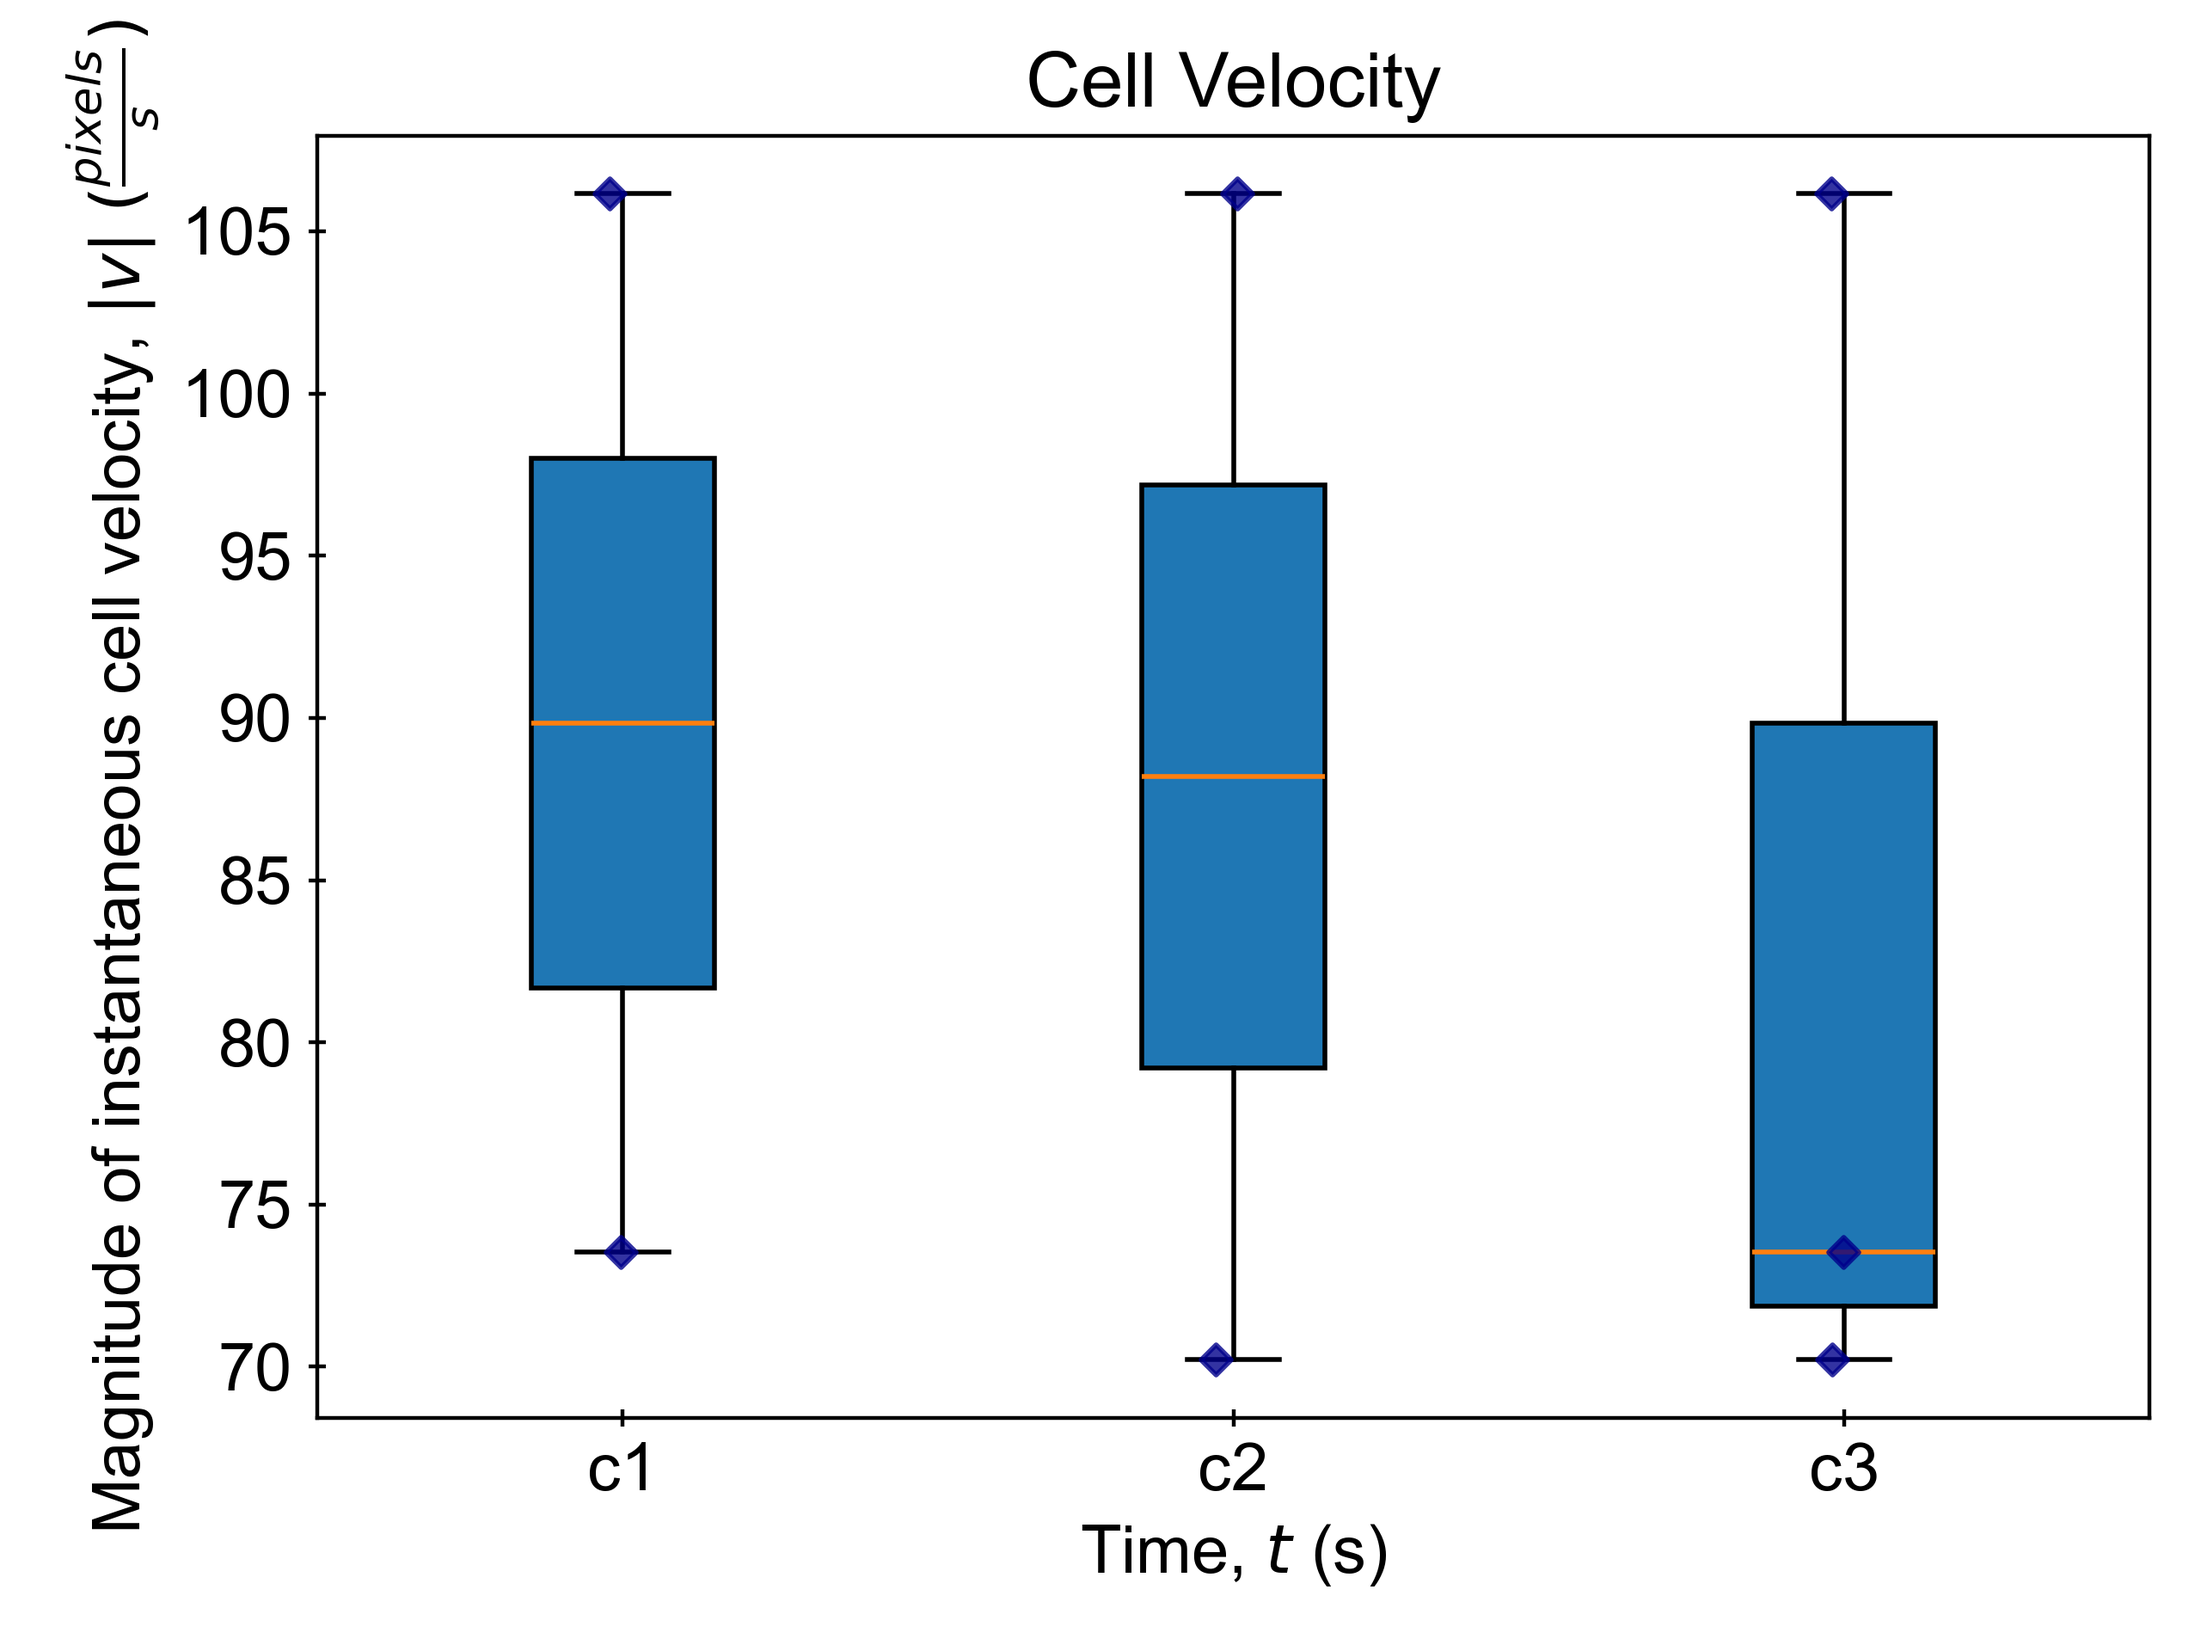
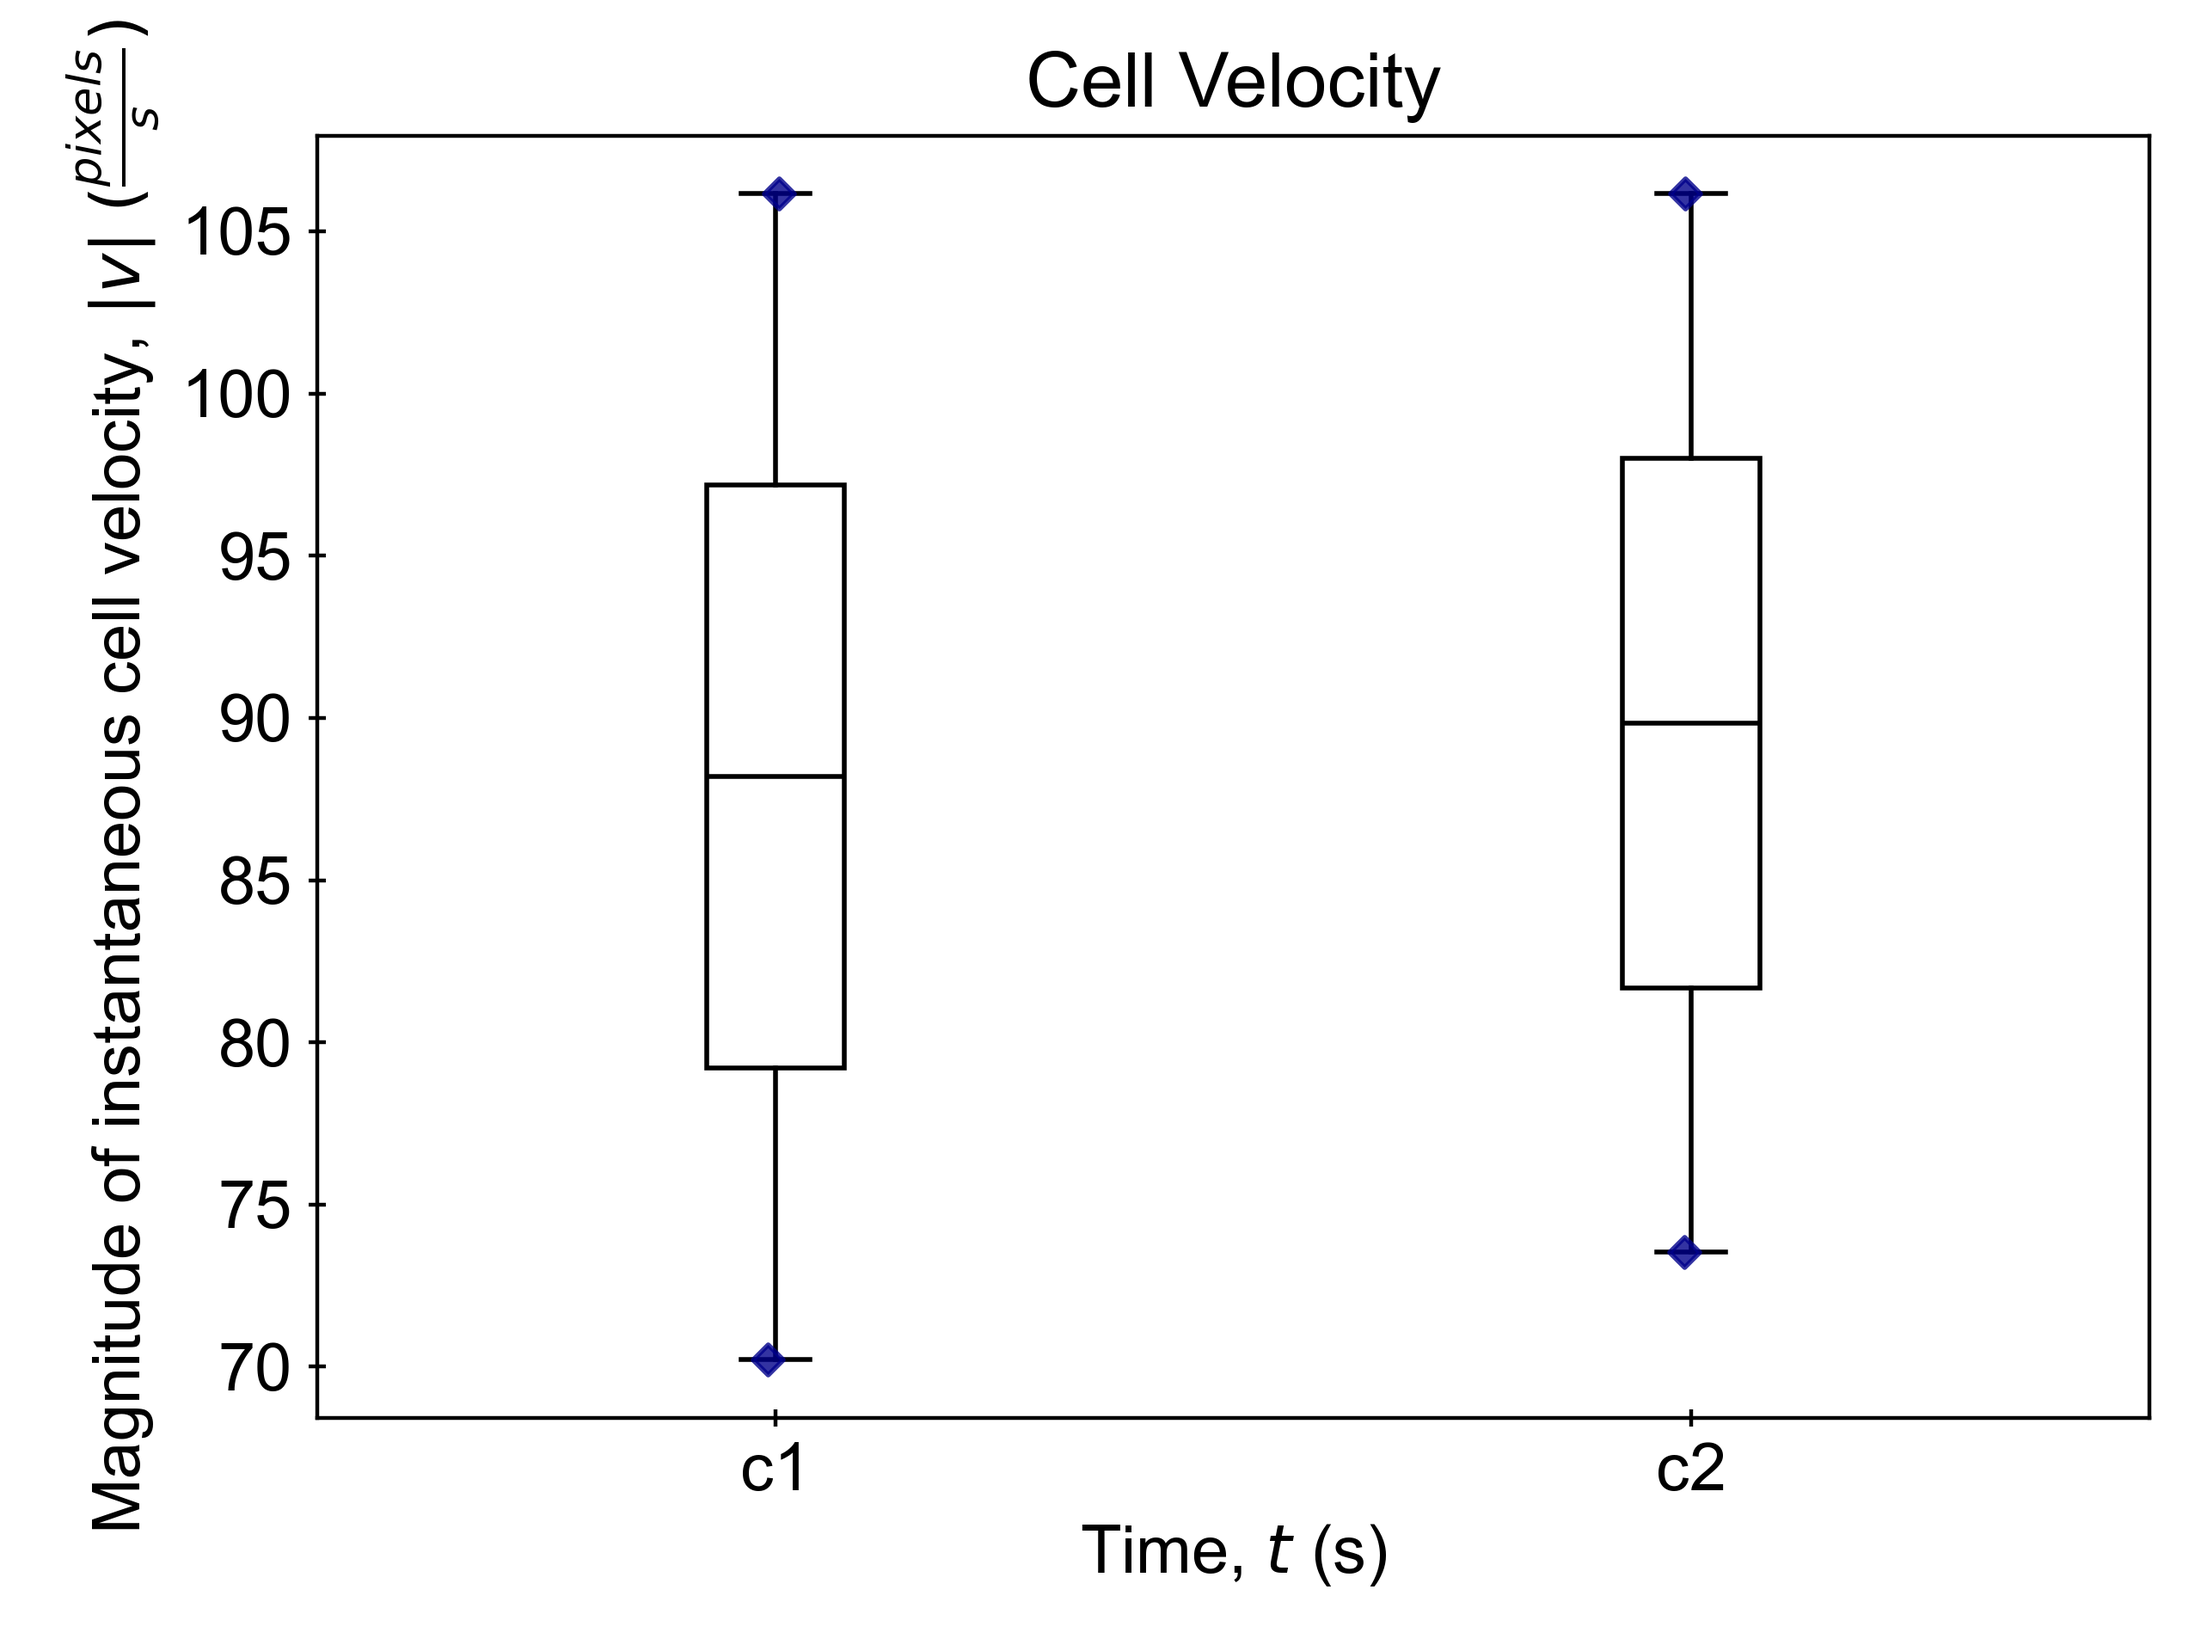
box plots fmt and bug fix

diff --git a/analysis.py b/analysis.py
@@ -886,7 +886,7 @@ def boxplot_time_ranges(df, times, labels, conversion_units):
     df_label_columns = [col for col in df.columns if 'data_label' in col]
     time_col, time_label, time_unit = get_time_labels(df)
     time_ranges_averages = defaultdict(list)
-    time_range_labels = [f"{t0}-{tf}" for t0, tf in times] # turn list of tuples into list of strings for boxplot labels
+    time_range_labels = [f"{float(t0)}-{float(tf)}" for t0, tf in times] # turn list of tuples into list of strings for boxplot labels
     data_lists = []
 
     for t0,tf in times: # iterate through tuple time ranges
@@ -907,8 +907,16 @@ def boxplot_time_ranges(df, times, labels, conversion_units):
 
     fig, ax = plt.subplots()
     boxplot = ax.boxplot(data_lists, patch_artist=True)
+
+    for patch in boxplot['boxes']:
+        patch.set_facecolor('white')
+
+    for median in boxplot['medians']:
+        median.set_color('black') 
+
     for i, time_range in enumerate(time_range_labels, start=1):  # count from 1 to match boxplot positions
         means = time_ranges_averages[time_range] # grab avg velocity previously calculated
+        print( means, time_range_labels, time_ranges_averages)
         x_jitter = np.random.normal(i, 0.025, size=len(means)) # some x jitter so points don't overlap
         ax.scatter(x_jitter, means, color='darkblue', zorder=3, marker='D', s=20, alpha=0.8) # plot mean value in the correct box with some x jitter
 
@@ -959,8 +967,15 @@ def boxplot_conditions(df, conditions_dict, conversion_units):
     fig, ax = plt.subplots()
     boxplot = ax.boxplot(data_lists, patch_artist=True)
 
+    for patch in boxplot['boxes']:
+        patch.set_facecolor('white')
+
+    for median in boxplot['medians']:
+        median.set_color('black') 
+
     for i, condition in enumerate(conditions, start=1):  # count from 1 to match boxplot positions
         means = condition_averages[condition] # grab avg previously calculated
+        print(means, conditions, condition_averages)
         x_jitter = np.random.normal(i, 0.025, size=len(means)) # some x jitter so points don't overlap
         ax.scatter(x_jitter, means, color='darkblue', zorder=3, marker='D', s=20, alpha=0.8) # plot mean value in the correct box with some x jitter
 

diff --git a/CHANGELOG.md b/CHANGELOG.md
@@ -29,6 +29,8 @@ Cell Mechanics
     - output file mostly unchanged, just changed column titles for x and y cell locations to centroid locations instead
 - surface area multithread now shows the scaled original frames instead of processed ones
     - slightly less efficient, but more important to be able to see tracked things being drawn
+- both box plot functions have changed formatting to a white face color and black median line
+- fixed bug in time ranges box plot where mean points were not showing
 
 5/5
 - fixed bug where surface area wasn't checking for previously used data labels correctly
